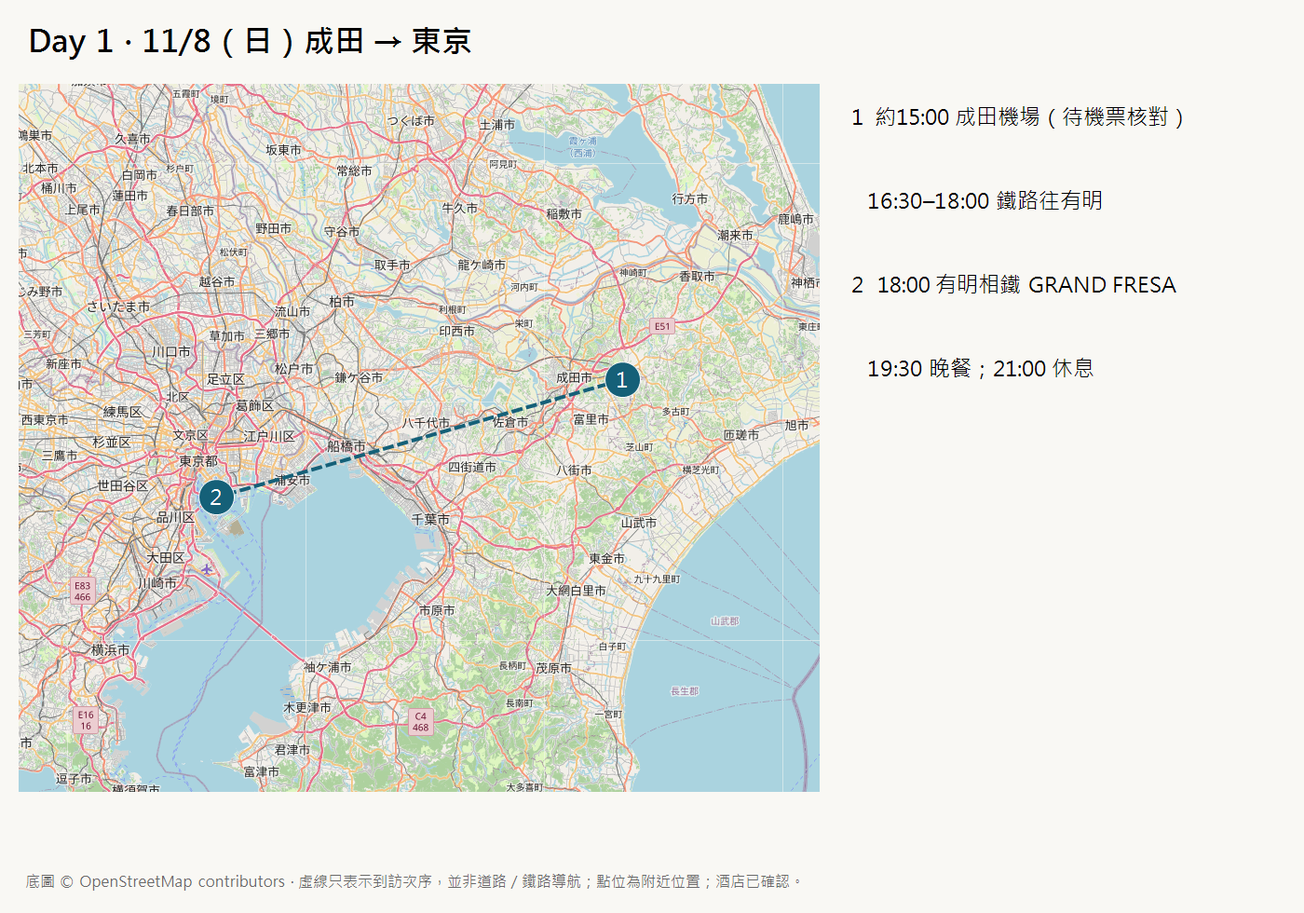
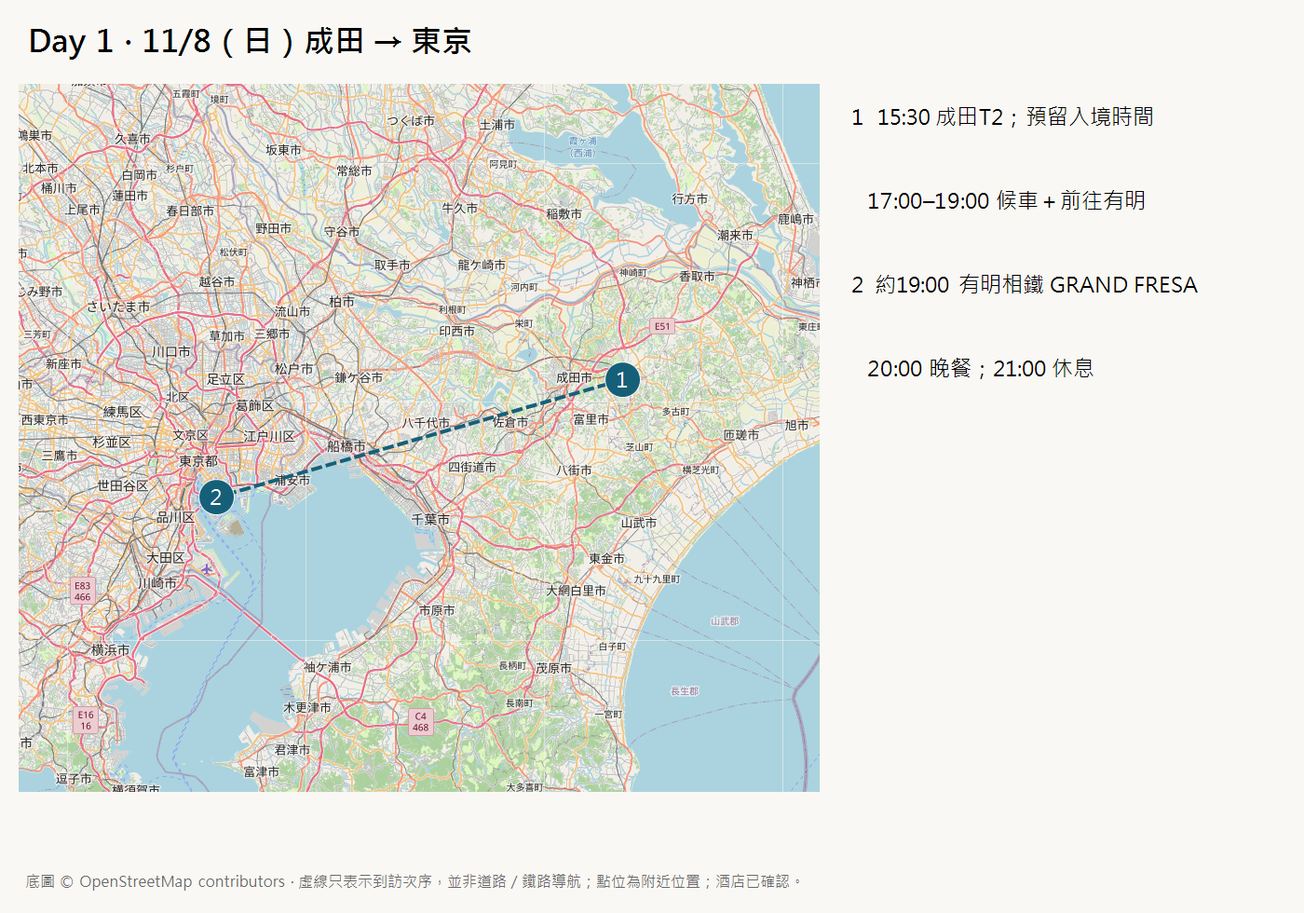
Add step-by-step airport and city transport guides

diff --git a/index.html b/index.html
@@ -2,13 +2,27 @@
 <a class="skip" href="#itinerary">跳至行程</a><header class="topbar"><a href="#top" class="brand"><span class="brand-mark">山</span> TOKYO / FUJI <span class="edition">TRAVEL NOTES 2026</span></a><a href="#hotels" class="top-link">已確認酒店 ↗</a></header>
 <main id="top"><section class="hero"><img class="hero-photo" src="fuji.jpg" alt="由大石公園望向河口湖與富士山" width="1280" height="853"><div class="hero-shade"></div><div class="hero-copy"><p class="eyebrow">08—12 NOVEMBER 2026 · JAPAN</p><h1>東京街頭，<br>富士山下。</h1><p class="hero-sub">五日秋旅 · 兩個人 · 一路慢慢行</p><div class="hero-links"><a href="#itinerary" class="button light">睇每日行程 ↓</a><a class="hero-map" href="https://www.google.com/maps/@35.5356161,136.9191237,691896m/data=!3m1!1e3!4m2!11m1!2sfNCkEX2oukLOJYB0iNipBff9MoVxrw" target="_blank" rel="noopener noreferrer">Google Maps 清單<span aria-hidden="true"> ↗</span></a></div></div><span class="hero-stamp">東京 TOKYO<br>鎌倉 KAMAKURA<br>河口湖 KAWAGUCHIKO</span></section>
 <div class="page-width"><section class="trip-facts" aria-label="旅程摘要"><div><strong>5 日 / 4 晚</strong><span>東京兩晚・富士山區兩晚</span></div><div><strong>2 人・2 間酒店</strong><span>房型及房價以訂單為準</span></div><div><strong>Day 3 開始自駕</strong><span>新宿取車・成田還車</span></div><div><strong>日本時間 JST</strong><span>比香港快 1 小時</span></div></section>
-<div class="planning-note"><span class="dot"></span><p><strong>兩間住宿已確認。</strong>酒店由旅客確認；租車及航班時間仍待確認，行程時間屬規劃估算。更新：2026-11-06。</p></div>
+<div class="planning-note"><span class="dot"></span><p><strong>兩間住宿已確認。</strong>酒店及航班時間由旅客提供；租車仍待確認，行程時間屬規劃估算。更新：2026-11-06。</p></div>
+<section id="transport" class="transport"><div class="section-intro"><div><p class="eyebrow">FOLLOW THESE STEPS</p><h2>而家去邊？跟住做。</h2></div><span class="tag">所有時間均為日本時間</span></div>
+<nav class="transport-shortcuts" aria-label="交通快捷入口"><a class="button" href="#arrival-guide">✈ 落機去酒店</a><a class="button" href="#city-guide">第二日出門 → 東京行街</a></nav>
+<article id="arrival-guide" class="transport-card"><p class="eyebrow">DAY 1 · 11/8 · 成田 T2 → 有明</p><h3>15:30抵達｜優先比較直達酒店巴士</h3><p>買<strong>單程、指定班次 Airport Limousine 巴士票</strong>，唔使買交通 pass。酒店官網參考價¥3,100／人、兩人¥6,200；車程約60–80分鐘，未計候車及塞車。最終票價以訂票頁為準。</p><p class="ticket-status">建議購買 · 未購票 · 11/8班次、空位及站位待核實</p>
+<ol class="travel-steps"><li><h4>入境 → 攞行李 → 過海關</h4><p>15:30係預定抵達時間，唔係可以上巴士嘅時間。預留約1.5–2小時；優先比較17:30或之後班次，呢個係時間緩衝建議，唔代表有17:30班車。</p></li>
+<li><h4>選班次、買單程票</h4><p>日期：2026/11/8；成人2位；出發：成田空港 第２ターミナル。目的地必須揀以下酒店，唔好只揀「東京」。可網上提前買，亦可落地後查餘位；滿座就需等下一班或改鐵路。</p><p class="copy-name">相鉄グランドフレッサ 東京ベイ有明</p><div class="transport-actions"><a class="button" target="_blank" rel="noopener noreferrer" href="https://webservice.limousinebus.co.jp/web/jp/ReservationTop.aspx?AirportLine=1&amp;Direction=1">官方查班次／買飛 ↗</a><button class="button light" type="button" data-copy="相鉄グランドフレッサ 東京ベイ有明">複製日文酒店名</button></div><p>官網可免會員預約；付款後保存電子車票及乘車指示。改班須於出發前限時內處理，以訂票條款為準。</p></li>
+<li><h4>按車票站位上車</h4><p>完成付款後按電子票指示前往T2乘車處，向職員出示車票。站位未核實，請以車票、櫃位及現場顯示為準。將目的地酒店名畀職員睇，交行李後保留行李牌。</p><a class="nav-link" target="_blank" rel="noopener noreferrer" href="https://www.limousinebus.co.jp/ja/airport/from-narita/">官方航廈乘車處地圖 · 需上網 ↗</a></li>
+<li><h4>酒店站落車 → 攞行李 → 入住</h4><p>東京灣有明相鐵 GRAND FRESA<br>東京都江東区有明3-6-6。到店時間隨實際班次及路況調整；晚餐留喺酒店附近。</p><a class="nav-link" target="_blank" rel="noopener noreferrer" href="https://www.google.com/maps/search/?api=1&amp;query=Sotetsu+Grand+Fresa+Tokyo+Bay+Ariake+3-6-6">酒店位置／導航 · 需上網 ↗</a></li></ol>
+<details><summary>冇啱時間巴士／滿座？鐵路後備方案</summary><p>成田機場 → N’EX往品川 → JR山手線往大崎 → 臨海線往國際展示場 → 步行約3分鐘到酒店。跟即時班次導航，預留轉車及行李步程。</p><p>N’EX需要乘車券＋特急指定席券，可在JR櫃位／售票機一併買，或官網預訂；唔可以只拍Suica就坐特急。臨海線另付車費。回程計劃揸車去成田，唔建議買N’EX來回票。</p><div class="transport-actions"><a class="nav-link" target="_blank" rel="noopener noreferrer" href="https://www.jreast.co.jp/en/multi/nex/tickets/">JR官方買飛說明 ↗</a><a class="nav-link" target="_blank" rel="noopener noreferrer" href="https://www.google.com/maps/dir/?api=1&amp;origin=Narita+Airport+Terminal+2&amp;destination=Sotetsu+Grand+Fresa+Tokyo+Bay+Ariake&amp;travelmode=transit">即時鐵路路線 ↗</a></div></details></article>
+<article id="city-guide" class="transport-card"><p class="eyebrow">DAY 2 · 11/9 · 原宿 → 表參道 → 澀谷</p><h3>每人一張Suica／PASMO，逐程扣錢</h3><p class="ticket-status">建議：唔買全日 pass · 交通卡唔係任搭票</p><ol class="travel-steps"><li><h4>08:15由酒店出發 → 原宿</h4><p>步行去國際展示場站 → 臨海線往大崎 → 轉JR山手線往澀谷／新宿方向，在原宿落車。目標09:30到明治神宮；按當日導航及月台指示。</p><a class="button" target="_blank" rel="noopener noreferrer" href="https://www.google.com/maps/dir/?api=1&amp;origin=Sotetsu+Grand+Fresa+Tokyo+Bay+Ariake&amp;destination=Harajuku+Station&amp;travelmode=transit">去程導航 · 需上網 ↗</a></li><li><h4>明治神宮 → 原宿 → 表參道 → 澀谷</h4><p>主要步行。表參道去澀谷攰嘅話，可以搭銀座線一個站，交通卡逐程扣錢，唔使為呢程另外買pass。</p></li><li><h4>19:00左右由澀谷返酒店</h4><p>JR往大崎，再轉臨海線往新木場方向，在國際展示場落車。遇直通新木場方向列車可免轉車，留意目的地及停站；唔好搭反方向。</p><a class="button" target="_blank" rel="noopener noreferrer" href="https://www.google.com/maps/dir/?api=1&amp;origin=Shibuya+Station&amp;destination=Sotetsu+Grand+Fresa+Tokyo+Bay+Ariake&amp;travelmode=transit">返酒店導航 · 需上網 ↗</a></li></ol>
+<details><summary>未有交通卡？點買、點拍？</summary><p>已有可用Suica／PASMO／ICOCA就帶去用。冇卡可在成田機場第1或第2・3航廈車站指定售票機／JR服務中心買Welcome Suica。每人一張，建議先儲值¥2,000，唔夠再增值；呢個唔係全程車費。</p><p>入閘及出閘拍同一張卡；餘額不足先增值。實體Welcome Suica有效28日、無按金、餘額不退，增值準備日圓現金。</p><a class="nav-link" target="_blank" rel="noopener noreferrer" href="https://www.jreast.co.jp/en/multi/welcomesuica/purchase.html">官方交通卡購買地點 ↗</a></details>
+<details><summary>點解唔建議買全日pass？</summary><p>Tokyo Subway 24小時票現價¥1,000，只包Metro及都營地下鐵，唔包主要用嘅臨海線及JR。臨海線一日票¥730亦只包臨海線；按今日主要來回酒店、中間步行安排，逐程拍卡最簡單，毋須預買pass。</p><div class="transport-actions"><a class="nav-link" target="_blank" rel="noopener noreferrer" href="https://www.kotsu.metro.tokyo.jp/subway/fare/otoku_limited.html">地鐵票官方範圍 ↗</a><a class="nav-link" target="_blank" rel="noopener noreferrer" href="https://www.twr.co.jp/route/tabid/126/Default.aspx">臨海線一日票 ↗</a></div></details></article>
+<p id="copy-feedback" role="status" aria-live="polite"></p><p class="small">資料核對：2026/11/6。步驟、酒店地址及網站內五張地圖可在快取完成後離線閱讀；外部訂票、乘車處地圖、班次及導航需上網。私人車票及QR code請自行保存，唔放公開網站。<a href="https://sotetsu-hotels.com/grand-fresa/ariake/access/" target="_blank" rel="noopener noreferrer">酒店官方交通資料</a>。</p></section>
+<nav class="hotel-dock" aria-label="酒店快捷導航"><a href="#transport">交通步驟</a><label for="return-hotel">返邊間？</label><select id="return-hotel"><option value="tokyo">東京有明 · 11/8–9</option><option value="fuji">河口湖 · 11/10–11</option></select><a id="return-hotel-link" href="https://www.google.com/maps/search/?api=1&amp;query=Sotetsu+Grand+Fresa+Tokyo+Bay+Ariake" target="_blank" rel="noopener noreferrer">返酒店 ↗</a></nav>
+
 <section id="itinerary" class="itinerary"><div class="section-intro"><div><p class="eyebrow">THE FIVE-DAY JOURNEY</p><h2>每日點樣行？</h2></div><span id="offline-status" class="status" role="status">正在準備離線內容…</span></div><nav class="day-tabs" aria-label="選擇行程日期"><a href="#day-1" data-day="1"><strong>Day 1</strong><span>11.08 週日</span><small>落地東京</small></a><a href="#day-2" data-day="2"><strong>Day 2</strong><span>11.09 週一</span><small>東京散步</small></a><a href="#day-3" data-day="3"><strong>Day 3</strong><span>11.10 週二</span><small>鎌倉・江之島</small></a><a href="#day-4" data-day="4"><strong>Day 4</strong><span>11.11 週三</span><small>富士山・紅葉</small></a><a href="#day-5" data-day="5"><strong>Day 5</strong><span>11.12 週四</span><small>成田回程</small></a></nav><noscript><p class="planning-note">JavaScript 未啟用：下方仍會列出完整五日行程；請按日期連結跳至相應位置。</p></noscript><section class="day-panel" id="day-1" aria-labelledby="day-title-1">
- <header class="day-heading"><div><p class="eyebrow">DAY 01 / 11.08 星期日</p><h2 id="day-title-1">落地東京，慢慢嚟</h2><p>今日只做三件事：入境、入住、食好啲。留返精神，聽日先正式行街。</p></div><span class="tag">入境日 · 鐵路</span></header>
+ <header class="day-heading"><div><p class="eyebrow">DAY 01 / 11.08 星期日</p><h2 id="day-title-1">落地東京，慢慢嚟</h2><p>今日只做三件事：入境、入住、食好啲。留返精神，聽日先正式行街。</p></div><span class="tag">入境日 · 巴士優先／鐵路後備</span></header>
  <div class="day-grid"><aside class="day-aside"><figure class="day-photo"><img src="tokyo.jpg" alt="澀谷夜色" loading="lazy" width="1280" height="853"><figcaption>澀谷夜色 · 景觀參考，非即時照片</figcaption></figure>
  <div class="map-card"><div class="card-top"><h3>今日路線圖</h3><span>MAP 01</span></div><button class="map-open" data-map="day-1-map.png" aria-label="放大 Day 1 路線圖"><img src="day-1-map.png" alt="Day 1 編號路線圖：成田 → 有明相鐵 GRAND FRESA" width="1400" height="980" loading="lazy"><span>按圖放大 ⤢</span></button><p class="small">時間表嘅「地圖點」對應圖上編號。虛線表示到訪次序，唔係實際道路。酒店點已按確認住宿更新。</p><a class="button full" href="https://www.google.com/maps/dir/?api=1&amp;origin=Narita+Airport+Terminal+2+Japan&amp;destination=Sotetsu+Grand+Fresa+Tokyo+Bay+Ariake+3-6-6+Ariake+Tokyo&amp;travelmode=transit" target="_blank" rel="noopener noreferrer">成田 → 有明酒店鐵路路線<span aria-hidden="true"> ↗</span></a><p class="small">國際展示場站至有明酒店步行約3分鐘；轉車按即時班次。</p></div>
- <div class="day-note"><span class="eyebrow">今日記住</span><p>15:00抵達及第二航廈仍待核對機票。今晚入住已確認嘅有明相鐵 GRAND FRESA；鐵路及到店時間為估算，航班晚到就順延。</p></div></aside>
- <div class="timeline"><div class="timeline-label"><span>日本時間 JST</span><span>計劃時間 · 可彈性調整</span></div><article class="stop"><div class="stop-rail"><span>01</span></div><div class="stop-content"><div class="stop-meta"><time>15:00–16:30</time><span class="point">地圖 1</span></div><h3>成田機場｜入境、攞行李</h3><p>預留約90分鐘；開通數據、補水、確認鐵路班次。航班晚到就整段順延。</p><a class="nav-link" href="https://www.google.com/maps/search/?api=1&amp;query=Narita%20Airport%20Terminal%202%20Japan" target="_blank" rel="noopener noreferrer">地點／導航<span aria-hidden="true"> ↗</span></a></div></article><article class="stop"><div class="stop-rail"><span>02</span></div><div class="stop-content"><div class="stop-meta"><time>16:30–18:00</time><span class="point">地圖 1 → 2</span></div><h3>搭鐵路往有明</h3><p>按即時導航選車；可經品川／大崎轉臨海線到國際展示場。預留候車、轉車及步行；班次以當日為準。</p><a class="nav-link" href="https://www.google.com/maps/search/?api=1&amp;query=Sotetsu%20Grand%20Fresa%20Tokyo%20Bay%20Ariake%203-6-6%20Ariake%20Tokyo" target="_blank" rel="noopener noreferrer">地點／導航<span aria-hidden="true"> ↗</span></a></div></article><article class="stop"><div class="stop-rail"><span>03</span></div><div class="stop-content"><div class="stop-meta"><time>18:00–18:30</time><span class="point">地圖 2</span></div><h3>有明相鐵 GRAND FRESA｜入住</h3><p>國際展示場站步行約3分鐘。住宿已確認；房型及早餐是否包括以訂單為準。</p><a class="nav-link" href="https://www.google.com/maps/search/?api=1&amp;query=Sotetsu%20Grand%20Fresa%20Tokyo%20Bay%20Ariake%203-6-6%20Ariake%20Tokyo" target="_blank" rel="noopener noreferrer">地點／導航<span aria-hidden="true"> ↗</span></a></div></article><article class="stop"><div class="stop-rail"><span>04</span></div><div class="stop-content"><div class="stop-meta"><time>18:30–19:30</time><span class="point">地圖 2</span></div><h3>放行李、附近補給</h3><p>買水、小食，確認翌日往原宿路線；兩人入住，實際床型以訂單為準。</p></div></article><article class="stop"><div class="stop-rail"><span>05</span></div><div class="stop-content"><div class="stop-meta"><time>19:30–20:30</time><span class="point">地圖 2</span></div><h3>附近食晚餐</h3><p>喺有明酒店附近食，參考預算每人¥1,000–2,000；太攰就簡單食完返房休息。</p><a class="nav-link" href="https://www.google.com/maps/search/?api=1&amp;query=Sotetsu%20Grand%20Fresa%20Tokyo%20Bay%20Ariake%203-6-6%20Ariake%20Tokyo" target="_blank" rel="noopener noreferrer">地點／導航<span aria-hidden="true"> ↗</span></a></div></article><article class="stop"><div class="stop-rail"><span>06</span></div><div class="stop-content"><div class="stop-meta"><time>20:30–21:30</time><span class="point">地圖 2</span></div><h3>沖涼、充電、休息</h3><p>準備聽日步行用嘅鞋；下載本網站離線內容。香港比日本慢一小時。</p></div></article></div></div></section><section class="day-panel" id="day-2" aria-labelledby="day-title-2">
+ <div class="day-note"><span class="eyebrow">今日記住</span><p>機票截圖顯示11/8日本時間15:30抵達成田；國泰使用T2。先睇上方「落機去酒店」步驟。直達巴士未購票，班次及空位待查；到店時間按實際交通順延。</p></div></aside>
+ <div class="timeline"><div class="timeline-label"><span>日本時間 JST</span><span>計劃時間 · 可彈性調整</span></div><article class="stop"><div class="stop-rail"><span>01</span></div><div class="stop-content"><div class="stop-meta"><time>15:30–17:00</time><span class="point">地圖 1</span></div><h3>成田機場｜入境、攞行李</h3><p>預留約90分鐘；開通數據、補水、確認鐵路班次。航班晚到就整段順延。</p><a class="nav-link" href="https://www.google.com/maps/search/?api=1&amp;query=Narita%20Airport%20Terminal%202%20Japan" target="_blank" rel="noopener noreferrer">地點／導航<span aria-hidden="true"> ↗</span></a></div></article><article class="stop"><div class="stop-rail"><span>02</span></div><div class="stop-content"><div class="stop-meta"><time>17:00–19:00</time><span class="point">地圖 1 → 2</span></div><h3>查票、候車、前往有明酒店</h3><p>優先比較17:30或之後直達酒店巴士；唔代表有17:30班車。班次、空位及站位待核實；冇啱班次先改鐵路。詳見上方交通步驟。</p><a class="nav-link" href="https://www.google.com/maps/search/?api=1&amp;query=Sotetsu%20Grand%20Fresa%20Tokyo%20Bay%20Ariake%203-6-6%20Ariake%20Tokyo" target="_blank" rel="noopener noreferrer">地點／導航<span aria-hidden="true"> ↗</span></a></div></article><article class="stop"><div class="stop-rail"><span>03</span></div><div class="stop-content"><div class="stop-meta"><time>19:00–19:30</time><span class="point">地圖 2</span></div><h3>有明相鐵 GRAND FRESA｜入住</h3><p>國際展示場站步行約3分鐘。住宿已確認；房型及早餐是否包括以訂單為準。</p><a class="nav-link" href="https://www.google.com/maps/search/?api=1&amp;query=Sotetsu%20Grand%20Fresa%20Tokyo%20Bay%20Ariake%203-6-6%20Ariake%20Tokyo" target="_blank" rel="noopener noreferrer">地點／導航<span aria-hidden="true"> ↗</span></a></div></article><article class="stop"><div class="stop-rail"><span>04</span></div><div class="stop-content"><div class="stop-meta"><time>19:30–20:00</time><span class="point">地圖 2</span></div><h3>放行李、附近補給</h3><p>買水、小食，確認翌日往原宿路線；兩人入住，實際床型以訂單為準。</p></div></article><article class="stop"><div class="stop-rail"><span>05</span></div><div class="stop-content"><div class="stop-meta"><time>20:00–21:00</time><span class="point">地圖 2</span></div><h3>附近食晚餐</h3><p>喺有明酒店附近食，參考預算每人¥1,000–2,000；太攰就簡單食完返房休息。</p><a class="nav-link" href="https://www.google.com/maps/search/?api=1&amp;query=Sotetsu%20Grand%20Fresa%20Tokyo%20Bay%20Ariake%203-6-6%20Ariake%20Tokyo" target="_blank" rel="noopener noreferrer">地點／導航<span aria-hidden="true"> ↗</span></a></div></article><article class="stop"><div class="stop-rail"><span>06</span></div><div class="stop-content"><div class="stop-meta"><time>21:00–22:00</time><span class="point">地圖 2</span></div><h3>沖涼、充電、休息</h3><p>準備聽日步行用嘅鞋；下載本網站離線內容。香港比日本慢一小時。</p></div></article></div></div></section><section class="day-panel" id="day-2" aria-labelledby="day-title-2">
  <header class="day-heading"><div><p class="eyebrow">DAY 02 / 11.09 星期一</p><h2 id="day-title-2">由森林行到城市夜色</h2><p>一路向南行，唔來回兜圈。上午神宮、下午購物，傍晚留畀澀谷。</p></div><span class="tag">東京散步 · 公共交通</span></header>
  <div class="day-grid"><aside class="day-aside"><figure class="day-photo"><img src="tokyo.jpg" alt="澀谷夜色" loading="lazy" width="1280" height="853"><figcaption>澀谷夜色 · 景觀參考，非即時照片</figcaption></figure>
  <div class="map-card"><div class="card-top"><h3>今日路線圖</h3><span>MAP 02</span></div><button class="map-open" data-map="day-2-map.png" aria-label="放大 Day 2 路線圖"><img src="day-2-map.png" alt="Day 2 編號路線圖：明治神宮 → 原宿 → 表參道 → 澀谷" width="1400" height="980" loading="lazy"><span>按圖放大 ⤢</span></button><p class="small">時間表嘅「地圖點」對應圖上編號。虛線表示到訪次序，唔係實際道路。酒店點已按確認住宿更新。</p><a class="button full" href="https://www.google.com/maps/dir/?api=1&amp;origin=Meiji+Jingu+Tokyo&amp;destination=Uobei+Shibuya+Dogenzaka+Tokyo&amp;travelmode=walking&amp;waypoints=AFURI+Harajuku+Tokyo%7COmotesando+Hills+Tokyo%7CShibuya+Scramble+Crossing+Tokyo" target="_blank" rel="noopener noreferrer">開啟今日主要路線<span aria-hidden="true"> ↗</span></a><p class="small">主要路線未包含所有接駁及小休；酒店連結見時間表，以逐站導航、即時交通為準。</p></div>
@@ -27,8 +41,8 @@
  <header class="day-heading"><div><p class="eyebrow">DAY 05 / 11.12 星期四</p><h2 id="day-title-5">預早出發，鬆動返機場</h2><p>今日重點係準時到機場。將休息、加油、還車同接駁全部計入，唔安排額外觀光。</p></div><span class="tag">回程日 · 還車＋接駁</span></header>
  <div class="day-grid"><aside class="day-aside"><figure class="day-photo"><img src="fuji.jpg" alt="大石公園遠眺富士山" loading="lazy" width="1280" height="853"><figcaption>大石公園遠眺富士山 · 景觀參考，非即時照片</figcaption></figure>
  <div class="map-card"><div class="card-top"><h3>今日路線圖</h3><span>MAP 05</span></div><button class="map-open" data-map="day-5-map.png" aria-label="放大 Day 5 路線圖"><img src="day-5-map.png" alt="Day 5 編號路線圖：河口湖 → 成田營業所 → 航廈" width="1400" height="980" loading="lazy"><span>按圖放大 ⤢</span></button><p class="small">時間表嘅「地圖點」對應圖上編號。虛線表示到訪次序，唔係實際道路。酒店點已按確認住宿更新。</p><a class="button full" href="https://www.google.com/maps/dir/?api=1&amp;origin=Super+Hotel+Fujikawaguchiko+Natural+Hot+Spring+3062-5+Funatsu&amp;destination=Nippon+Rent+A+Car+495-2+Tokko+Narita&amp;travelmode=driving" target="_blank" rel="noopener noreferrer">超級酒店 → 成田還車路線<span aria-hidden="true"> ↗</span></a><p class="small">還車後改搭租車公司接駁去航廈；唔係自行駕車去航廈。</p></div>
- <div class="day-note"><span class="eyebrow">今日記住</span><p>16:50 起飛、第二航廈均待機票確認。若實際航班更早，必須整段提早。還車去營業所，唔係直接駛去航廈櫃位。</p></div></aside>
- <div class="timeline"><div class="timeline-label"><span>日本時間 JST</span><span>計劃時間 · 可彈性調整</span></div><article class="stop"><div class="stop-rail"><span>01</span></div><div class="stop-content"><div class="stop-meta"><time>06:30–07:30</time><span class="point">地圖 1</span></div><h3>早餐、退房、檢查行李</h3><p>由已確認嘅富士河口湖天然溫泉超級酒店出發。建議食預先買好嘅早餐；如食07:00酒店早餐，先執好行李，確保07:30離開。</p><a class="nav-link" href="https://www.google.com/maps/search/?api=1&amp;query=Super%20Hotel%20Fujikawaguchiko%20Natural%20Hot%20Spring%203062-5%20Funatsu" target="_blank" rel="noopener noreferrer">地點／導航<span aria-hidden="true"> ↗</span></a></div></article><article class="stop"><div class="stop-rail"><span>02</span></div><div class="stop-content"><div class="stop-meta"><time>07:30–09:30</time><span class="point">地圖 1 → 2</span></div><h3>往成田方向行車</h3><p>跟即時交通選高速公路；總共預約4小時行車、休息與交通緩衝。</p></div></article><article class="stop"><div class="stop-rail"><span>03</span></div><div class="stop-content"><div class="stop-meta"><time>09:30–10:00</time><span class="point">地圖 1 → 2</span></div><h3>服務區休息</h3><p>洗手間、飲水、簡單小食；休息位置依實際高速路線，唔預設固定服務區。</p></div></article><article class="stop"><div class="stop-rail"><span>04</span></div><div class="stop-content"><div class="stop-meta"><time>10:00–11:30</time><span class="point">地圖 1 → 2</span></div><h3>繼續前往成田區</h3><p>如塞車延誤，先取消坐低食午餐，保留還車及機場手續時間。</p></div></article><article class="stop"><div class="stop-rail"><span>05</span></div><div class="stop-content"><div class="stop-meta"><time>11:30–12:00</time><span class="point">地圖 2</span></div><h3>按租車規則加油</h3><p>選營業所附近油站；核對油種、保留單據。實際要求以租車訂單為準。</p></div></article><article class="stop"><div class="stop-rail"><span>06</span></div><div class="stop-content"><div class="stop-meta"><time>12:00–12:30</time><span class="point">地圖 2</span></div><h3>NIPPON 成田營業所還車</h3><p>候選地址：千葉縣成田市取香495-2。清空車廂、檢查遺留物；按實際訂單確認營業所。</p><a class="nav-link" href="https://www.google.com/maps/search/?api=1&amp;query=Nippon%20Rent%20A%20Car%20495-2%20Tokko%20Narita" target="_blank" rel="noopener noreferrer">地點／導航<span aria-hidden="true"> ↗</span></a></div></article><article class="stop"><div class="stop-rail"><span>07</span></div><div class="stop-content"><div class="stop-meta"><time>12:30–13:00</time><span class="point">地圖 2 → 3</span></div><h3>搭租車公司接駁去航廈</h3><p>預15–30分鐘及候車；告知司機實際航廈。目標13:00抵達。</p><a class="nav-link" href="https://www.google.com/maps/search/?api=1&amp;query=Narita%20Airport%20Terminal%202%20Japan" target="_blank" rel="noopener noreferrer">地點／導航<span aria-hidden="true"> ↗</span></a></div></article><article class="stop"><div class="stop-rail"><span>08</span></div><div class="stop-content"><div class="stop-meta"><time>13:00–14:00</time><span class="point">地圖 3</span></div><h3>辦登機、午餐｜有時間先食</h3><p>第二航廈方案：4樓安檢前稻葉和幸。航班／航廈不同就改；航空公司櫃位未開時按現場安排。</p><a class="nav-link" href="https://www.google.com/maps/search/?api=1&amp;query=Tonkatsu%20Inaba%20Wako%20Narita%20Airport%20Terminal%202" target="_blank" rel="noopener noreferrer">地點／導航<span aria-hidden="true"> ↗</span></a></div></article><article class="stop"><div class="stop-rail"><span>09</span></div><div class="stop-content"><div class="stop-meta"><time>14:00–15:00</time><span class="point">地圖 3</span></div><h3>安檢、出境</h3><p>按航空公司截關時間及現場排隊情況提早；先過關再購物。</p></div></article><article class="stop"><div class="stop-rail"><span>10</span></div><div class="stop-content"><div class="stop-meta"><time>15:00–15:30</time><span class="point">地圖 3</span></div><h3>確認閘口、飲水、小休</h3><p>閘口可能較遠，先行到附近。</p></div></article><article class="stop"><div class="stop-rail"><span>11</span></div><div class="stop-content"><div class="stop-meta"><time>15:30–16:50</time><span class="point">地圖 3</span></div><h3>到閘口等候登機</h3><p>以登機證顯示時間為準；16:50只係暫定航班時間，並非已確認。</p></div></article></div></div></section></section>
+ <div class="day-note"><span class="eyebrow">今日記住</span><p>機票截圖顯示11/12日本時間16:50起飛，國泰使用T2；仍須留意航空公司變更。還車先去營業所，再搭接駁去航廈。</p></div></aside>
+ <div class="timeline"><div class="timeline-label"><span>日本時間 JST</span><span>計劃時間 · 可彈性調整</span></div><article class="stop"><div class="stop-rail"><span>01</span></div><div class="stop-content"><div class="stop-meta"><time>06:30–07:30</time><span class="point">地圖 1</span></div><h3>早餐、退房、檢查行李</h3><p>由已確認嘅富士河口湖天然溫泉超級酒店出發。建議食預先買好嘅早餐；如食07:00酒店早餐，先執好行李，確保07:30離開。</p><a class="nav-link" href="https://www.google.com/maps/search/?api=1&amp;query=Super%20Hotel%20Fujikawaguchiko%20Natural%20Hot%20Spring%203062-5%20Funatsu" target="_blank" rel="noopener noreferrer">地點／導航<span aria-hidden="true"> ↗</span></a></div></article><article class="stop"><div class="stop-rail"><span>02</span></div><div class="stop-content"><div class="stop-meta"><time>07:30–09:30</time><span class="point">地圖 1 → 2</span></div><h3>往成田方向行車</h3><p>跟即時交通選高速公路；總共預約4小時行車、休息與交通緩衝。</p></div></article><article class="stop"><div class="stop-rail"><span>03</span></div><div class="stop-content"><div class="stop-meta"><time>09:30–10:00</time><span class="point">地圖 1 → 2</span></div><h3>服務區休息</h3><p>洗手間、飲水、簡單小食；休息位置依實際高速路線，唔預設固定服務區。</p></div></article><article class="stop"><div class="stop-rail"><span>04</span></div><div class="stop-content"><div class="stop-meta"><time>10:00–11:30</time><span class="point">地圖 1 → 2</span></div><h3>繼續前往成田區</h3><p>如塞車延誤，先取消坐低食午餐，保留還車及機場手續時間。</p></div></article><article class="stop"><div class="stop-rail"><span>05</span></div><div class="stop-content"><div class="stop-meta"><time>11:30–12:00</time><span class="point">地圖 2</span></div><h3>按租車規則加油</h3><p>選營業所附近油站；核對油種、保留單據。實際要求以租車訂單為準。</p></div></article><article class="stop"><div class="stop-rail"><span>06</span></div><div class="stop-content"><div class="stop-meta"><time>12:00–12:30</time><span class="point">地圖 2</span></div><h3>NIPPON 成田營業所還車</h3><p>候選地址：千葉縣成田市取香495-2。清空車廂、檢查遺留物；按實際訂單確認營業所。</p><a class="nav-link" href="https://www.google.com/maps/search/?api=1&amp;query=Nippon%20Rent%20A%20Car%20495-2%20Tokko%20Narita" target="_blank" rel="noopener noreferrer">地點／導航<span aria-hidden="true"> ↗</span></a></div></article><article class="stop"><div class="stop-rail"><span>07</span></div><div class="stop-content"><div class="stop-meta"><time>12:30–13:00</time><span class="point">地圖 2 → 3</span></div><h3>搭租車公司接駁去航廈</h3><p>預15–30分鐘及候車；告知司機實際航廈。目標13:00抵達。</p><a class="nav-link" href="https://www.google.com/maps/search/?api=1&amp;query=Narita%20Airport%20Terminal%202%20Japan" target="_blank" rel="noopener noreferrer">地點／導航<span aria-hidden="true"> ↗</span></a></div></article><article class="stop"><div class="stop-rail"><span>08</span></div><div class="stop-content"><div class="stop-meta"><time>13:00–14:00</time><span class="point">地圖 3</span></div><h3>辦登機、午餐｜有時間先食</h3><p>第二航廈方案：4樓安檢前稻葉和幸。航班／航廈不同就改；航空公司櫃位未開時按現場安排。</p><a class="nav-link" href="https://www.google.com/maps/search/?api=1&amp;query=Tonkatsu%20Inaba%20Wako%20Narita%20Airport%20Terminal%202" target="_blank" rel="noopener noreferrer">地點／導航<span aria-hidden="true"> ↗</span></a></div></article><article class="stop"><div class="stop-rail"><span>09</span></div><div class="stop-content"><div class="stop-meta"><time>14:00–15:00</time><span class="point">地圖 3</span></div><h3>安檢、出境</h3><p>按航空公司截關時間及現場排隊情況提早；先過關再購物。</p></div></article><article class="stop"><div class="stop-rail"><span>10</span></div><div class="stop-content"><div class="stop-meta"><time>15:00–15:30</time><span class="point">地圖 3</span></div><h3>確認閘口、飲水、小休</h3><p>閘口可能較遠，先行到附近。</p></div></article><article class="stop"><div class="stop-rail"><span>11</span></div><div class="stop-content"><div class="stop-meta"><time>15:30–16:50</time><span class="point">地圖 3</span></div><h3>到閘口等候登機</h3><p>預定16:50起飛；登機及截關以登機證和航空公司當日通知為準。</p></div></article></div></div></section></section>
 <section id="hotels" class="hotels"><div class="section-intro"><div><p class="eyebrow">STAY WELL</p><h2>住兩間，唔使日日搬。</h2></div><span class="tag">住宿已確認</span></div><p class="section-desc">兩間酒店已由旅客確認：<strong>有明 11/8–10 兩晚，河口湖 11/10–12 兩晚</strong>，共4晚。兩人入住；原先希望分床，但實際已訂房型、床型、房價及取消條款未提供，全部以訂單為準。</p><div class="hotel-grid"><article class="hotel-card"><span class="hotel-no">01</span><p class="eyebrow">東京有明 · 11/8入住 → 11/10退房 · 2晚</p><h3>東京灣有明相鐵 GRAND FRESA</h3><p class="tag">住宿已確認 · 旅客提供</p><p class="room">兩人入住；實際房型／床型以訂單為準</p><p>東京都江東區有明3-6-6。國際展示場站及東京 Big Sight 站步行約3分鐘。入住15:00起，退房11:00前。Day 3 要預早由有明去新宿取車。</p><p class="price-note">已付房價、早餐及取消條款未提供，以訂單為準；原有預算不代表成交價。</p><div class="hotel-actions"><a class="nav-link" href="https://sotetsu-hotels.com/grand-fresa/ariake/" target="_blank" rel="noopener noreferrer">酒店官方資料<span aria-hidden="true"> ↗</span></a><a class="nav-link" href="https://www.google.com/maps/search/?api=1&amp;query=Sotetsu%20Grand%20Fresa%20Tokyo%20Bay%20Ariake%203-6-6%20Ariake%20Tokyo" target="_blank" rel="noopener noreferrer">位置<span aria-hidden="true"> ↗</span></a></div></article><article class="hotel-card"><span class="hotel-no">02</span><p class="eyebrow">河口湖 · 11/10入住 → 11/12退房 · 2晚</p><h3>富士河口湖天然溫泉超級酒店</h3><p class="tag">住宿已確認 · 旅客提供</p><p class="room">兩人入住；實際房型／床型以訂單為準</p><p>山梨縣南都留郡富士河口湖町船津3062-5。入住15:00起，退房10:00前。普通車免費泊車80個車位，先到先得。免費早餐07:00–09:00；天然溫泉15:00–翌日09:00。</p><p class="price-note">已付房價及取消條款以訂單為準。早出發日建議預先買早餐；唔好預06:30已有酒店早餐。</p><div class="hotel-actions"><a class="nav-link" href="https://www.superhotel.co.jp/s_hotels/kawaguchiko/" target="_blank" rel="noopener noreferrer">酒店官方資料<span aria-hidden="true"> ↗</span></a><a class="nav-link" href="https://www.google.com/maps/search/?api=1&amp;query=Super%20Hotel%20Fujikawaguchiko%20Natural%20Hot%20Spring%203062-5%20Funatsu" target="_blank" rel="noopener noreferrer">位置<span aria-hidden="true"> ↗</span></a></div></article></div></section>
 <section class="practical" id="practical"><div><p class="eyebrow">BEFORE YOU GO</p><h2>出發前，搞掂呢幾樣。</h2><p>唔洗一次過記晒，呢頁可以留喺手機。</p></div><div class="checklist"><label><input type="checkbox" data-check="0"><span>核對來回航班、日期、航廈及航空公司截關時間。</span></label><label><input type="checkbox" data-check="1"><span>核對兩間已確認酒店訂單嘅房型／床型、早餐、入住日期、取消條款及泊車安排。</span></label><label><input type="checkbox" data-check="2"><span>租車確認新宿取車、成田取香495-2還車是否適用，核實異地費、ETC、保障及所需證件。</span></label><label><input type="checkbox" data-check="3"><span>Shibuya Sky 有票先安排；纜車遇排隊或天氣差可取消。</span></label><label><input type="checkbox" data-check="4"><span>手機先上網開一次網站，等顯示「已備妥離線閱讀」。Google Maps導航、訂房及外部連結仍需上網。</span></label><p class="small">勾選只保存在呢部裝置，唔會同步畀其他人。</p></div></section>
 <details class="sources"><summary>圖片、地圖來源與使用說明</summary><p>景點照片只作參考，唔代表出發當日天氣、紅葉或花況。照片縮放及版面裁切，按 CC BY-SA 4.0 分享。</p><ul><li><a class="" href="https://commons.wikimedia.org/wiki/File:Mount_Fuji_from_Oishi_Park.jpg" target="_blank" rel="noopener noreferrer">大石公園遠眺富士山<span aria-hidden="true"> ↗</span></a> — Alpsdake · <a class="" href="https://creativecommons.org/licenses/by-sa/4.0/" target="_blank" rel="noopener noreferrer">CC BY-SA 4.0<span aria-hidden="true"> ↗</span></a></li><li><a class="" href="https://commons.wikimedia.org/wiki/File:Shibuya_Crossing.jpg" target="_blank" rel="noopener noreferrer">澀谷夜色<span aria-hidden="true"> ↗</span></a> — Landry Miguel · <a class="" href="https://creativecommons.org/licenses/by-sa/4.0/" target="_blank" rel="noopener noreferrer">CC BY-SA 4.0<span aria-hidden="true"> ↗</span></a></li><li><a class="" href="https://commons.wikimedia.org/wiki/File:The_Great_Buddha_at_Kamakura.jpg" target="_blank" rel="noopener noreferrer">鎌倉大佛<span aria-hidden="true"> ↗</span></a> — Daniel M. Dobkin · <a class="" href="https://creativecommons.org/licenses/by-sa/4.0/" target="_blank" rel="noopener noreferrer">CC BY-SA 4.0<span aria-hidden="true"> ↗</span></a></li><li>地圖底圖 © <a class="" href="https://www.openstreetmap.org/copyright" target="_blank" rel="noopener noreferrer">OpenStreetMap contributors<span aria-hidden="true"> ↗</span></a>，路線與標註為本行程編排。地圖為靜態位置示意，非導航或即時交通資料。</li></ul><p>旅行安排為規劃建議；營業、票價、交通及活動可能調整，出發前查看官方。住宿確認狀態由旅客提供；設施資料參考酒店官方頁面，房型及已付房價以訂單為準。</p></details>

diff --git a/transport.html b/transport.html
@@ -1,0 +1,13 @@
+<section id="transport" class="transport"><div class="section-intro"><div><p class="eyebrow">FOLLOW THESE STEPS</p><h2>而家去邊？跟住做。</h2></div><span class="tag">所有時間均為日本時間</span></div>
+<nav class="transport-shortcuts" aria-label="交通快捷入口"><a class="button" href="#arrival-guide">✈ 落機去酒店</a><a class="button" href="#city-guide">第二日出門 → 東京行街</a></nav>
+<article id="arrival-guide" class="transport-card"><p class="eyebrow">DAY 1 · 11/8 · 成田 T2 → 有明</p><h3>15:30抵達｜優先比較直達酒店巴士</h3><p>買<strong>單程、指定班次 Airport Limousine 巴士票</strong>，唔使買交通 pass。酒店官網參考價¥3,100／人、兩人¥6,200；車程約60–80分鐘，未計候車及塞車。最終票價以訂票頁為準。</p><p class="ticket-status">建議購買 · 未購票 · 11/8班次、空位及站位待核實</p>
+<ol class="travel-steps"><li><h4>入境 → 攞行李 → 過海關</h4><p>15:30係預定抵達時間，唔係可以上巴士嘅時間。預留約1.5–2小時；優先比較17:30或之後班次，呢個係時間緩衝建議，唔代表有17:30班車。</p></li>
+<li><h4>選班次、買單程票</h4><p>日期：2026/11/8；成人2位；出發：成田空港 第２ターミナル。目的地必須揀以下酒店，唔好只揀「東京」。可網上提前買，亦可落地後查餘位；滿座就需等下一班或改鐵路。</p><p class="copy-name">相鉄グランドフレッサ 東京ベイ有明</p><div class="transport-actions"><a class="button" target="_blank" rel="noopener noreferrer" href="https://webservice.limousinebus.co.jp/web/jp/ReservationTop.aspx?AirportLine=1&amp;Direction=1">官方查班次／買飛 ↗</a><button class="button light" type="button" data-copy="相鉄グランドフレッサ 東京ベイ有明">複製日文酒店名</button></div><p>官網可免會員預約；付款後保存電子車票及乘車指示。改班須於出發前限時內處理，以訂票條款為準。</p></li>
+<li><h4>按車票站位上車</h4><p>完成付款後按電子票指示前往T2乘車處，向職員出示車票。站位未核實，請以車票、櫃位及現場顯示為準。將目的地酒店名畀職員睇，交行李後保留行李牌。</p><a class="nav-link" target="_blank" rel="noopener noreferrer" href="https://www.limousinebus.co.jp/ja/airport/from-narita/">官方航廈乘車處地圖 · 需上網 ↗</a></li>
+<li><h4>酒店站落車 → 攞行李 → 入住</h4><p>東京灣有明相鐵 GRAND FRESA<br>東京都江東区有明3-6-6。到店時間隨實際班次及路況調整；晚餐留喺酒店附近。</p><a class="nav-link" target="_blank" rel="noopener noreferrer" href="https://www.google.com/maps/search/?api=1&amp;query=Sotetsu+Grand+Fresa+Tokyo+Bay+Ariake+3-6-6">酒店位置／導航 · 需上網 ↗</a></li></ol>
+<details><summary>冇啱時間巴士／滿座？鐵路後備方案</summary><p>成田機場 → N’EX往品川 → JR山手線往大崎 → 臨海線往國際展示場 → 步行約3分鐘到酒店。跟即時班次導航，預留轉車及行李步程。</p><p>N’EX需要乘車券＋特急指定席券，可在JR櫃位／售票機一併買，或官網預訂；唔可以只拍Suica就坐特急。臨海線另付車費。回程計劃揸車去成田，唔建議買N’EX來回票。</p><div class="transport-actions"><a class="nav-link" target="_blank" rel="noopener noreferrer" href="https://www.jreast.co.jp/en/multi/nex/tickets/">JR官方買飛說明 ↗</a><a class="nav-link" target="_blank" rel="noopener noreferrer" href="https://www.google.com/maps/dir/?api=1&amp;origin=Narita+Airport+Terminal+2&amp;destination=Sotetsu+Grand+Fresa+Tokyo+Bay+Ariake&amp;travelmode=transit">即時鐵路路線 ↗</a></div></details></article>
+<article id="city-guide" class="transport-card"><p class="eyebrow">DAY 2 · 11/9 · 原宿 → 表參道 → 澀谷</p><h3>每人一張Suica／PASMO，逐程扣錢</h3><p class="ticket-status">建議：唔買全日 pass · 交通卡唔係任搭票</p><ol class="travel-steps"><li><h4>08:15由酒店出發 → 原宿</h4><p>步行去國際展示場站 → 臨海線往大崎 → 轉JR山手線往澀谷／新宿方向，在原宿落車。目標09:30到明治神宮；按當日導航及月台指示。</p><a class="button" target="_blank" rel="noopener noreferrer" href="https://www.google.com/maps/dir/?api=1&amp;origin=Sotetsu+Grand+Fresa+Tokyo+Bay+Ariake&amp;destination=Harajuku+Station&amp;travelmode=transit">去程導航 · 需上網 ↗</a></li><li><h4>明治神宮 → 原宿 → 表參道 → 澀谷</h4><p>主要步行。表參道去澀谷攰嘅話，可以搭銀座線一個站，交通卡逐程扣錢，唔使為呢程另外買pass。</p></li><li><h4>19:00左右由澀谷返酒店</h4><p>JR往大崎，再轉臨海線往新木場方向，在國際展示場落車。遇直通新木場方向列車可免轉車，留意目的地及停站；唔好搭反方向。</p><a class="button" target="_blank" rel="noopener noreferrer" href="https://www.google.com/maps/dir/?api=1&amp;origin=Shibuya+Station&amp;destination=Sotetsu+Grand+Fresa+Tokyo+Bay+Ariake&amp;travelmode=transit">返酒店導航 · 需上網 ↗</a></li></ol>
+<details><summary>未有交通卡？點買、點拍？</summary><p>已有可用Suica／PASMO／ICOCA就帶去用。冇卡可在成田機場第1或第2・3航廈車站指定售票機／JR服務中心買Welcome Suica。每人一張，建議先儲值¥2,000，唔夠再增值；呢個唔係全程車費。</p><p>入閘及出閘拍同一張卡；餘額不足先增值。實體Welcome Suica有效28日、無按金、餘額不退，增值準備日圓現金。</p><a class="nav-link" target="_blank" rel="noopener noreferrer" href="https://www.jreast.co.jp/en/multi/welcomesuica/purchase.html">官方交通卡購買地點 ↗</a></details>
+<details><summary>點解唔建議買全日pass？</summary><p>Tokyo Subway 24小時票現價¥1,000，只包Metro及都營地下鐵，唔包主要用嘅臨海線及JR。臨海線一日票¥730亦只包臨海線；按今日主要來回酒店、中間步行安排，逐程拍卡最簡單，毋須預買pass。</p><div class="transport-actions"><a class="nav-link" target="_blank" rel="noopener noreferrer" href="https://www.kotsu.metro.tokyo.jp/subway/fare/otoku_limited.html">地鐵票官方範圍 ↗</a><a class="nav-link" target="_blank" rel="noopener noreferrer" href="https://www.twr.co.jp/route/tabid/126/Default.aspx">臨海線一日票 ↗</a></div></details></article>
+<p id="copy-feedback" role="status" aria-live="polite"></p><p class="small">資料核對：2026/11/6。步驟、酒店地址及網站內五張地圖可在快取完成後離線閱讀；外部訂票、乘車處地圖、班次及導航需上網。私人車票及QR code請自行保存，唔放公開網站。<a href="https://sotetsu-hotels.com/grand-fresa/ariake/access/" target="_blank" rel="noopener noreferrer">酒店官方交通資料</a>。</p></section>
+<nav class="hotel-dock" aria-label="酒店快捷導航"><a href="#transport">交通步驟</a><label for="return-hotel">返邊間？</label><select id="return-hotel"><option value="tokyo">東京有明 · 11/8–9</option><option value="fuji">河口湖 · 11/10–11</option></select><a id="return-hotel-link" href="https://www.google.com/maps/search/?api=1&amp;query=Sotetsu+Grand+Fresa+Tokyo+Bay+Ariake" target="_blank" rel="noopener noreferrer">返酒店 ↗</a></nav>

diff --git a/style.css b/style.css
@@ -3,3 +3,4 @@
 @media(max-width:800px){.edition,.hero-stamp{display:none}.topbar{height:62px;padding:0 20px}.brand{font-size:12px;gap:9px}.hero{height:500px;margin:0 12px}.hero-copy{left:7%;right:6%;bottom:40px}.hero h1{font-size:52px}.hero-sub{font-size:14px}.hero-links{gap:18px;flex-wrap:wrap}.hero-map{font-size:12px}.page-width{padding:0 20px}.trip-facts{grid-template-columns:1fr 1fr;gap:22px 10px;padding:25px 0}.trip-facts div:nth-child(2){border:0}.trip-facts strong{font-size:15px}.trip-facts span{font-size:11px}.section-intro{margin:36px 0 20px;align-items:flex-start;flex-direction:column;gap:12px}.status{font-size:10px}.day-tabs{gap:3px;margin:0 -8px;padding:7px 0}.day-tabs a{padding:10px 4px;text-align:center;min-height:75px}.day-tabs strong{font-size:15px}.day-tabs span{font-size:10px}.day-tabs small{font-size:9px;white-space:nowrap}.day-heading{display:block}.day-heading .tag{margin-top:16px}.day-heading h2{font-size:28px}.day-grid{grid-template-columns:1fr;gap:25px}.day-aside{display:grid;grid-template-columns:1fr;gap:0}.day-photo img{height:200px}.map-card{margin-top:18px}.day-note{margin-bottom:0}.timeline{margin-top:0}.stop{gap:12px}.stop-content h3{font-size:18px}.stop-content p{font-size:14px}.hotel-grid{grid-template-columns:1fr}.hotel-card{padding:23px}.practical{grid-template-columns:1fr;padding:25px;gap:18px;margin-top:40px}.hero-shade{background:linear-gradient(0deg,rgba(9,36,31,.86),rgba(9,36,31,.1))}dialog{padding:12px}.map-scroll img{width:1150px}}
 @media(prefers-reduced-motion:reduce){html{scroll-behavior:auto}}
 @media print{.day-panel[hidden]{display:block!important}.day-tabs,.topbar,.hero-links,.map-open span,.nav-link,.status,dialog{display:none}.hero{height:250px}.hero-copy{bottom:20px}.hero h1{font-size:35px}.day-grid{display:block}.day-aside{position:static}.day-photo{display:none}.map-card{break-inside:avoid}.map-open img{max-height:350px;object-fit:contain}.day-panel{break-before:page}.stop,.hotel-card{break-inside:avoid}.practical{background:white;color:black}.page-width{padding:0}.hotel-grid{grid-template-columns:1fr 1fr}}
+.transport-shortcuts,.transport-actions{display:flex;flex-wrap:wrap;gap:12px}.transport-card{margin:24px 0;padding:26px;background:var(--white);border:1px solid var(--line);border-radius:8px;scroll-margin-top:110px}.transport-card h4{margin:0;font-size:19px}.travel-steps{padding-left:28px}.travel-steps li{padding:18px 0 18px 8px;border-bottom:1px solid var(--line)}.travel-steps li::marker{font-weight:800;color:var(--orange)}.ticket-status{background:var(--soft);padding:12px;border-radius:4px;font-size:14px}.transport-card details{border-bottom:1px solid var(--line);padding:15px 0}.transport-card summary{cursor:pointer;min-height:44px;font-weight:700}.copy-name{overflow-wrap:anywhere;font-weight:700}.hotel-dock{position:fixed;bottom:0;left:0;right:0;z-index:20;background:var(--ink);color:white;display:flex;justify-content:center;align-items:center;gap:12px;padding:10px 12px calc(10px + env(safe-area-inset-bottom));box-shadow:0 -2px 12px #0002}.hotel-dock a{padding:8px;text-decoration:none;min-height:44px}.hotel-dock select{max-width:200px;min-height:44px;font:inherit;border-radius:4px;padding:5px}.hotel-dock label{font-size:12px}body{padding-bottom:90px}@media(max-width:600px){.transport-card{padding:20px 16px}.hotel-dock{gap:4px;font-size:12px}.hotel-dock label{display:none}.hotel-dock select{font-size:12px;max-width:155px}.transport-shortcuts .button{width:100%}}@media print{.hotel-dock{display:none}}

diff --git a/app.js b/app.js
@@ -15,3 +15,14 @@ if('serviceWorker' in navigator && location.protocol!=='file:'){
  navigator.serviceWorker.addEventListener('message',e=>{if(e.data?.type==='CACHE_READY'){cached=true;updateStatus();}});
  navigator.serviceWorker.register('./sw.js').then(()=>navigator.serviceWorker.ready).then(r=>r.active?.postMessage({type:'CHECK_CACHE'})).catch(()=>{status.textContent='未能啟用離線儲存；請保持連線閱讀';});
 }else{status.textContent='此瀏覽器未啟用離線儲存；請保持連線閱讀';}
+const hotelChoice=document.querySelector('#return-hotel');
+const hotelReturn=document.querySelector('#return-hotel-link');
+const hotelQueries={tokyo:'Sotetsu Grand Fresa Tokyo Bay Ariake 3-6-6',fuji:'Super Hotel Fujikawaguchiko Natural Hot Spring 3062-5 Funatsu'};
+function setHotel(value){hotelChoice.value=value;hotelReturn.href='https://www.google.com/maps/search/?api=1&query='+encodeURIComponent(hotelQueries[value]);hotelReturn.setAttribute('aria-label',value==='fuji'?'導航返河口湖超級酒店（需上網）':'導航返有明相鐵酒店（需上網）');}
+const japanDate=new Intl.DateTimeFormat('en-CA',{timeZone:'Asia/Tokyo',year:'numeric',month:'2-digit',day:'2-digit'}).format(new Date());
+setHotel(japanDate>='2026-11-10'&&japanDate<='2026-11-12'?'fuji':'tokyo');
+hotelChoice.addEventListener('change',()=>setHotel(hotelChoice.value));
+tabs.forEach(t=>t.addEventListener('click',()=>setHotel(Number(t.dataset.day)>=3?'fuji':'tokyo')));
+const initialDay=location.hash.match(/^#day-([1-5])$/);if(initialDay)setHotel(Number(initialDay[1])>=3?'fuji':'tokyo');
+window.addEventListener('hashchange',()=>{const d=location.hash.match(/^#day-([1-5])$/);if(d)setHotel(Number(d[1])>=3?'fuji':'tokyo');});
+document.querySelectorAll('[data-copy]').forEach(b=>b.addEventListener('click',async()=>{const feedback=document.querySelector('#copy-feedback');try{await navigator.clipboard.writeText(b.dataset.copy);b.textContent='已複製 ✓';feedback.textContent='已複製日文酒店名。';}catch{feedback.textContent='未能自動複製，請長按酒店日文名稱選取及複製。';}}));

diff --git a/sw.js b/sw.js
@@ -1,4 +1,4 @@
-const CACHE='tokyo-fuji-trip-v5';
+const CACHE='tokyo-fuji-trip-v6';
 const FILES=['./','./index.html','./style.css','./app.js','./trip-data.json','./icon.svg','./manifest.webmanifest','./fuji.jpg','./tokyo.jpg','./kamakura.jpg',...Array.from({length:5},(_,i)=>`./day-${i+1}-map.png`)];
 self.addEventListener('install',event=>event.waitUntil(caches.open(CACHE).then(c=>c.addAll(FILES)).then(()=>self.skipWaiting())));
 self.addEventListener('activate',event=>event.waitUntil(caches.keys().then(keys=>Promise.all(keys.filter(k=>k.startsWith('tokyo-fuji-trip-')&&k!==CACHE).map(k=>caches.delete(k)))).then(()=>self.clients.claim())));
